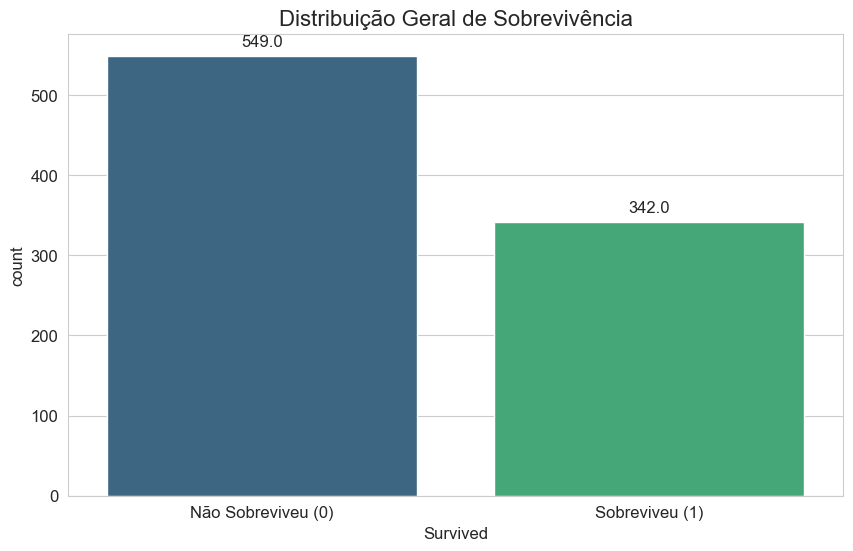
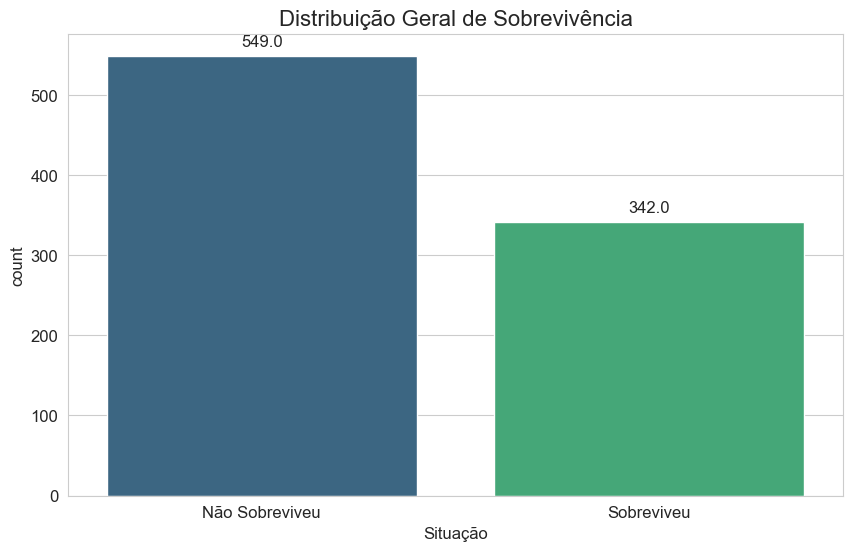
Atualiza script final e melhora documentação do README

diff --git a/titanic_tensorflow.py b/titanic_tensorflow.py
@@ -43,12 +43,21 @@ def run_exploratory_data_analysis():
         print("Erro: O arquivo 'train.csv' não foi encontrado. Certifique-se de que ele está no mesmo diretório do script.")
         return
 
+    # Criar uma cópia do DataFrame para as plots para não alterar o original
+    df_plot = df.copy()
+    # Traduzir a coluna 'Sex' para os gráficos, eliminando a necessidade de set_xticklabels
+    df_plot['Gênero'] = df_plot['Sex'].map({'female': 'Mulher', 'male': 'Homem'})
+    # Criar uma coluna 'Sobreviveu_Label' para os gráficos
+    df_plot['Sobreviveu_Label'] = df_plot['Survived'].map({0: 'Não Sobreviveu', 1: 'Sobreviveu'})
+
+
     # 1. Análise Geral de Sobrevivência
     print("\n[Storytelling 1/6] Analisando a taxa geral de sobrevivência...")
     plt.figure()
-    ax = sns.countplot(x='Survived', data=df, palette='viridis')
+    # CORRIGIDO: Adicionado hue e legend=False
+    ax = sns.countplot(data=df_plot, x='Sobreviveu_Label', hue='Sobreviveu_Label', palette='viridis', legend=False)
     ax.set_title('Distribuição Geral de Sobrevivência', fontsize=16)
-    ax.set_xticklabels(['Não Sobreviveu (0)', 'Sobreviveu (1)'])
+    ax.set_xlabel('Situação') # O Label já tem a informação (0) e (1)
     for p in ax.patches:
         ax.annotate(f'{p.get_height()}', (p.get_x() + p.get_width() / 2., p.get_height()), ha='center', va='center', xytext=(0, 10), textcoords='offset points')
     plt.savefig('1_geral_sobrevivencia.png', bbox_inches='tight')
@@ -57,9 +66,9 @@ def run_exploratory_data_analysis():
     # 2. Análise por Gênero
     print("[Storytelling 2/6] Analisando a sobrevivência por gênero...")
     plt.figure()
-    ax = sns.barplot(x='Sex', y='Survived', data=df, palette='plasma', estimator=lambda x: sum(x==1)*100.0/len(x))
+    # CORRIGIDO: Usando a coluna 'Gênero' traduzida e adicionado hue
+    ax = sns.barplot(x='Gênero', y='Survived', data=df_plot, hue='Gênero', palette='plasma', estimator=lambda y: sum(y)*100.0/len(y), legend=False)
     ax.set_title('Taxa de Sobrevivência por Gênero', fontsize=16)
-    ax.set_xticklabels(['Mulher', 'Homem'])
     ax.set_ylabel('Taxa de Sobrevivência (%)')
     for p in ax.patches:
         ax.annotate(f'{p.get_height():.1f}%', (p.get_x() + p.get_width() / 2., p.get_height()), ha='center', va='center', xytext=(0, 10), textcoords='offset points')
@@ -69,7 +78,8 @@ def run_exploratory_data_analysis():
     # 3. Análise por Classe Social
     print("[Storytelling 3/6] Analisando a sobrevivência por classe social...")
     plt.figure()
-    ax = sns.barplot(x='Pclass', y='Survived', data=df, palette='magma', estimator=lambda x: sum(x==1)*100.0/len(x))
+    # CORRIGIDO: Adicionado hue e legend=False
+    ax = sns.barplot(x='Pclass', y='Survived', data=df_plot, hue='Pclass', palette='magma', estimator=lambda y: sum(y)*100.0/len(y), legend=False)
     ax.set_title('Taxa de Sobrevivência por Classe Social', fontsize=16)
     ax.set_xlabel('Classe do Passageiro')
     ax.set_ylabel('Taxa de Sobrevivência (%)')
@@ -81,7 +91,8 @@ def run_exploratory_data_analysis():
     # 4. Análise por Idade
     print("[Storytelling 4/6] Analisando a distribuição de idade...")
     plt.figure()
-    sns.histplot(data=df, x='Age', hue='Survived', kde=True, multiple='stack', palette='viridis')
+    # CORRIGIDO: Usando a coluna 'Sobreviveu_Label' para a legenda
+    sns.histplot(data=df_plot, x='Age', hue='Sobreviveu_Label', kde=True, multiple='stack', palette='viridis')
     plt.title('Distribuição de Idade por Sobrevivência', fontsize=16)
     plt.legend(title='Situação', labels=['Sobreviveu', 'Não Sobreviveu'])
     plt.savefig('4_sobrevivencia_por_idade.png', bbox_inches='tight')
@@ -89,10 +100,12 @@ def run_exploratory_data_analysis():
 
     # 5. Análise Combinada: Classe e Gênero
     print("[Storytelling 5/6] Analisando a combinação de classe e gênero...")
-    g = sns.catplot(x="Pclass", hue="Sex", col="Survived", data=df, kind="count", height=6, aspect=.7, palette='plasma')
+    # CORRIGIDO: Usando a coluna 'Sobreviveu_Label' para os títulos das colunas
+    g = sns.catplot(x="Pclass", hue="Gênero", col="Sobreviveu_Label", data=df_plot, kind="count", height=6, aspect=.7, palette='plasma',
+                    col_order=['Não Sobreviveu', 'Sobreviveu']) # Garante a ordem
     g.fig.suptitle('Contagem de Sobrevivência por Classe e Gênero', y=1.03)
     g.set_axis_labels("Classe Social", "Número de Passageiros")
-    g.set_titles("Não Sobreviveu" if "{col_name}" == "0" else "Sobreviveu")
+    g.set_titles("{col_name}") # Usa o valor da coluna diretamente como título
     plt.savefig('5_classe_genero_sobrevivencia.png', bbox_inches='tight')
     plt.close()
 
@@ -108,7 +121,7 @@ def run_exploratory_data_analysis():
     plt.title('Matriz de Correlação das Features', fontsize=16)
     plt.savefig('6_matriz_correlacao.png', bbox_inches='tight')
     plt.close()
-    
+
     print("--- ANÁLISE EXPLORATÓRIA CONCLUÍDA ---")
     print("Gráficos salvos como arquivos .png no diretório.\n")
 
@@ -119,8 +132,9 @@ def plot_training_history(history):
     """
     Plota os gráficos de acurácia e perda durante o treinamento.
     """
-    # Gráfico de Acurácia
     plt.figure(figsize=(12, 5))
+
+    # Gráfico de Acurácia
     plt.subplot(1, 2, 1)
     plt.plot(history.history['accuracy'], label='Acurácia de Treino')
     plt.plot(history.history['val_accuracy'], label='Acurácia de Validação')
@@ -128,7 +142,6 @@ def plot_training_history(history):
     plt.xlabel('Época')
     plt.ylabel('Acurácia')
     plt.legend()
-    plt.savefig('7_grafico_acuracia.png')
     
     # Gráfico de Perda (Loss)
     plt.subplot(1, 2, 2)
@@ -175,7 +188,7 @@ def train_and_predict_model():
     test_passenger_ids = test_df['PassengerId']
 
     # Pré-processamento
-    print("[RNA 1/6] Pré-processando os dados...")
+    print("[RNA 1/7] Pré-processando os dados...")
     def preprocess(df):
         df['Age'] = df['Age'].fillna(df['Age'].mean())
         df['Embarked'] = df['Embarked'].fillna('S')
@@ -201,24 +214,27 @@ def train_and_predict_model():
     X_test_scaled = scaler.transform(test_df)
 
     # Construir e Compilar a RNA
-    print("[RNA 2/6] Construindo o modelo...")
+    print("[RNA 2/7] Construindo o modelo...")
     model = tf.keras.models.Sequential([
-        tf.keras.layers.InputLayer(input_shape=(X_train_scaled.shape[1],)),
-        tf.keras.layers.Dense(units=16, activation='relu'),
-        tf.keras.layers.Dense(units=8, activation='relu'),
-        tf.keras.layers.Dense(units=1, activation='sigmoid')
+        tf.keras.layers.InputLayer(shape=(X_train_scaled.shape[1],)),
+        tf.keras.layers.Dense(units=16, activation='relu', name='Camada_Oculta_1'),
+        tf.keras.layers.Dense(units=8, activation='relu', name='Camada_Oculta_2'),
+        tf.keras.layers.Dense(units=1, activation='sigmoid', name='Camada_de_Saida')
     ])
     model.compile(optimizer='adam', loss='binary_crossentropy', metrics=['accuracy'])
     
-   # Fluxograma 
+    # Gerar resumo e fluxograma da arquitetura
     print("[RNA 3/7] Gerando resumo e fluxograma da arquitetura...")
-    # 1. Gerar o resumo em texto no console
     print("Resumo da Arquitetura do Modelo:")
     model.summary()
-
-    # 2. Gerar o fluxograma visual em um arquivo .png
-    plot_model(model, to_file='arquitetura_modelo.png', show_shapes=True, show_layer_names=True)
-
+    try:
+        plot_model(model, to_file='arquitetura_modelo.png', show_shapes=True, show_layer_names=True)
+        print("Fluxograma 'arquitetura_modelo.png' gerado com sucesso.")
+    except ImportError:
+        print("\nAVISO: Não foi possível gerar o fluxograma do modelo.")
+        print("Para isso, instale 'pydot' e 'graphviz'.")
+        print("Comandos: pip install pydot graphviz")
+        print("E instale o programa Graphviz no seu sistema: https://graphviz.org/download/\n")
 
     # Treinar a RNA
     print("[RNA 4/7] Treinando o modelo...")
